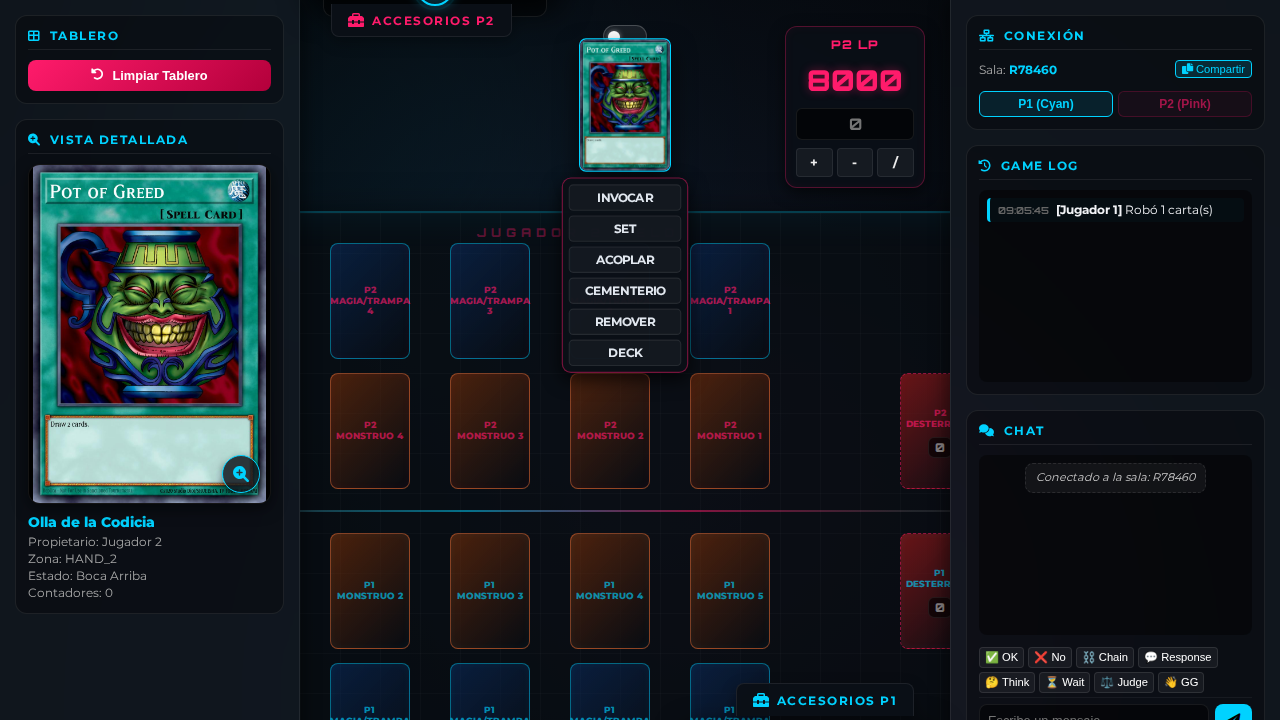
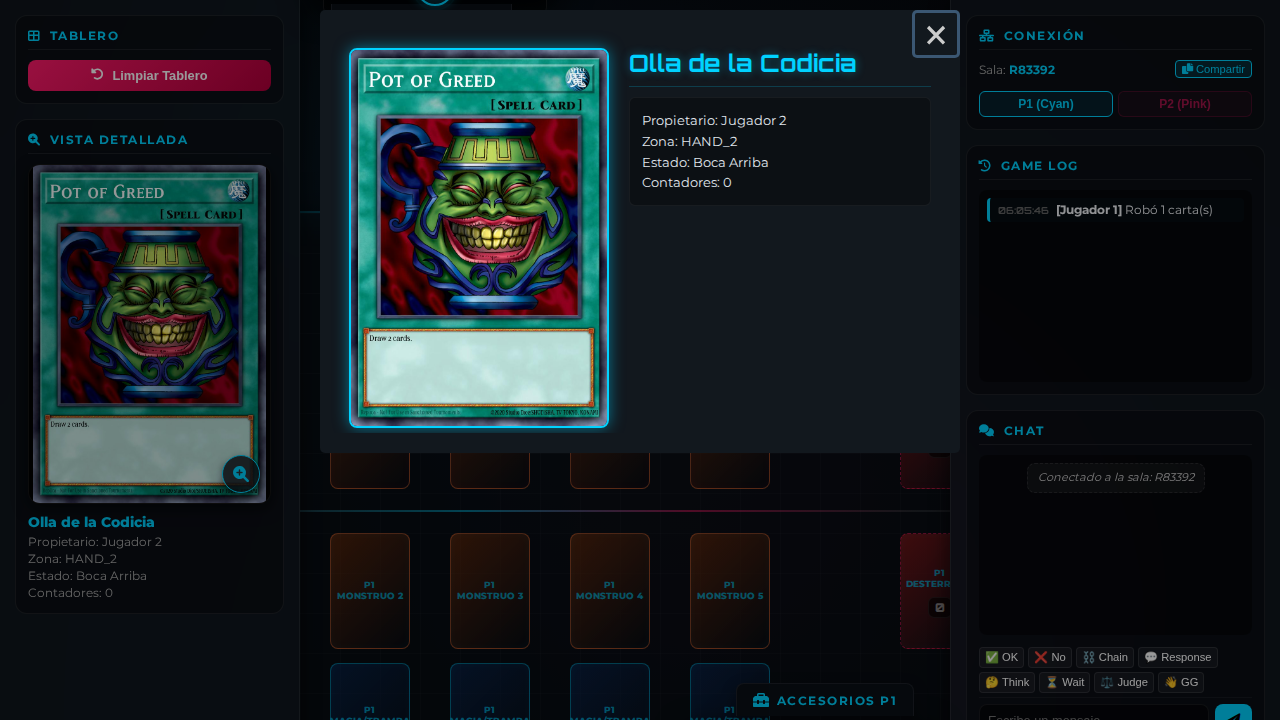
feat(duel): add custom stats, zoom modal, left-click context menu, practice reveal, and graveyard top card ordering in docs/duel.html

diff --git a/docs/duel.html b/docs/duel.html
@@ -927,6 +927,12 @@
             opacity: 1;
         }
 
+        /* Permanently hide hover ribbons */
+        .hand-card-actions, .field-card-actions, .extra-deck-card-hover-overlay {
+            display: none !important;
+            opacity: 0 !important;
+            pointer-events: none !important;
+        }
     </style>
     <script src="https://code.jquery.com/jquery-3.6.0.min.js"></script>
     <script src="https://cdn.jsdelivr.net/npm/@supabase/supabase-js@2"></script>
@@ -993,6 +999,15 @@
                     <div class="counter-source poke-counter-source dmg-100" data-val="100" draggable="true">100</div>
                 </div>
             </div>
+
+            <div class="accessories-section" id="custom-stats-section-p1">
+                <h3>Custom ATK / DEF</h3>
+                <div class="acc-row" style="display: flex; gap: 8px; justify-content: space-between; align-items: center; margin-bottom: 8px;">
+                    <input type="number" class="custom-atk-input" placeholder="ATK" style="width: 70px; background: #12181e; border: 1px solid #00d2ff; color: #fff; padding: 4px; border-radius: 4px; text-align: center; font-size: 12px; font-family: 'Orbitron', sans-serif;">
+                    <input type="number" class="custom-def-input" placeholder="DEF" style="width: 70px; background: #12181e; border: 1px solid #00d2ff; color: #fff; padding: 4px; border-radius: 4px; text-align: center; font-size: 12px; font-family: 'Orbitron', sans-serif;">
+                </div>
+                <button class="btn-apply-custom-stats" style="width: 100%; background: #00d2ff; color: #000; border: none; padding: 6px; border-radius: 4px; font-weight: bold; cursor: pointer; box-shadow: 0 0 10px rgba(0, 210, 255, 0.4); font-family: 'Orbitron', sans-serif; font-size: 11px;">Aplicar a Carta</button>
+            </div>
         </div>
     </div>
 
@@ -1049,6 +1064,15 @@
                     <div class="counter-source poke-counter-source dmg-90" data-val="90" draggable="true">90</div>
                     <div class="counter-source poke-counter-source dmg-100" data-val="100" draggable="true">100</div>
                 </div>
+            </div>
+
+            <div class="accessories-section" id="custom-stats-section-p2">
+                <h3>Custom ATK / DEF</h3>
+                <div class="acc-row" style="display: flex; gap: 8px; justify-content: space-between; align-items: center; margin-bottom: 8px;">
+                    <input type="number" class="custom-atk-input" placeholder="ATK" style="width: 70px; background: #12181e; border: 1px solid #ff007f; color: #fff; padding: 4px; border-radius: 4px; text-align: center; font-size: 12px; font-family: 'Orbitron', sans-serif;">
+                    <input type="number" class="custom-def-input" placeholder="DEF" style="width: 70px; background: #12181e; border: 1px solid #ff007f; color: #fff; padding: 4px; border-radius: 4px; text-align: center; font-size: 12px; font-family: 'Orbitron', sans-serif;">
+                </div>
+                <button class="btn-apply-custom-stats" style="width: 100%; background: #ff007f; color: #fff; border: none; padding: 6px; border-radius: 4px; font-weight: bold; cursor: pointer; box-shadow: 0 0 10px rgba(255, 0, 127, 0.4); font-family: 'Orbitron', sans-serif; font-size: 11px;">Aplicar a Carta</button>
             </div>
         </div>
     </div>
@@ -1263,8 +1287,12 @@
         <div class="menu-item" id="menu-to-grave"><i class="fas fa-skull"></i> Enviar al Cementerio</div>
         <div class="menu-item" id="menu-to-deck-top"><i class="fas fa-arrow-up"></i> Poner al tope del Deck</div>
         <div class="menu-item" id="menu-to-deck-bottom"><i class="fas fa-arrow-down"></i> Poner al fondo del Deck</div>
+        <div class="menu-item" id="menu-to-extra-face-up"><i class="fas fa-arrow-up"></i> Al Extra Deck (Boca Arriba)</div>
+        <div class="menu-item" id="menu-to-extra-face-down"><i class="fas fa-arrow-down"></i> Al Extra Deck (Boca Abajo)</div>
         <hr>
         <div class="menu-item" id="menu-control"><i class="fas fa-exchange-alt"></i> Tomar Control</div>
+        <hr>
+        <div class="menu-item" id="menu-custom-stats"><i class="fas fa-edit"></i> Modificar ATK/DEF</div>
     </div>
 
     <!-- Click handler bindings for targeting attacks -->
@@ -2873,6 +2901,18 @@
                     });
                 }
 
+                // Stable sort state.cards by movedToPileAt so the latest card sent to any pile is positioned last in its zone's list!
+                state.cards.sort((a, b) => {
+                    if (a.zone !== b.zone) return 0;
+                    const isPile = a.zone.startsWith("deck_") || a.zone.startsWith("grave_") || a.zone.startsWith("banished_") || a.zone.startsWith("extra_");
+                    if (isPile) {
+                        const timeA = a.movedToPileAt || 0;
+                        const timeB = b.movedToPileAt || 0;
+                        return timeA - timeB;
+                    }
+                    return 0;
+                });
+
                 const newStates = trackCardStates();
 
                 // If this render is triggered by a remote sync, do not log or broadcast!
@@ -3106,6 +3146,216 @@
             setTimeout(() => {
                 previousCardStates = trackCardStates();
             }, 1000);
+
+            // Handle Accessories Panel "Aplicar a Carta" button
+            $(document).on("click", ".btn-apply-custom-stats", function(e) {
+                e.preventDefault();
+                e.stopPropagation();
+                const $sec = $(this).closest(".accessories-section");
+                const atkVal = $sec.find(".custom-atk-input").val();
+                const defVal = $sec.find(".custom-def-input").val();
+
+                window.activeStatsTargeting = {
+                    atk: (atkVal !== "" && atkVal !== null) ? parseInt(atkVal) : undefined,
+                    def: (defVal !== "" && defVal !== null) ? parseInt(defVal) : undefined
+                };
+
+                Swal.fire({
+                    toast: true,
+                    position: 'bottom',
+                    showConfirmButton: false,
+                    timer: 5000,
+                    timerProgressBar: true,
+                    icon: 'info',
+                    title: 'Haz click en una carta para aplicar los stats customizados',
+                    background: '#12181e',
+                    color: '#fff'
+                });
+            });
+
+            // Handle Context Menu "Modificar ATK/DEF" option
+            $(document).on("click", "#menu-custom-stats", function(e) {
+                e.preventDefault();
+                e.stopPropagation();
+                $("#card-menu").removeClass("active");
+                if (!activeMenuCard) return;
+
+                Swal.fire({
+                    title: 'Modificar ATK / DEF',
+                    html: `
+                        <div style="display: flex; flex-direction: column; gap: 12px; margin-top: 10px;">
+                            <div style="display: flex; justify-content: space-between; align-items: center;">
+                                <label style="color: #fff; font-family: 'Orbitron'; min-width: 80px;">ATK:</label>
+                                <input id="swal-atk" type="number" class="swal2-input" value="${activeMenuCard.customAtk !== undefined ? activeMenuCard.customAtk : ''}" style="margin: 0; background: #12181e; color: #fff; border: 1px solid #00d2ff; font-family: 'Orbitron'; width: 140px; text-align: center;">
+                            </div>
+                            <div style="display: flex; justify-content: space-between; align-items: center;">
+                                <label style="color: #fff; font-family: 'Orbitron'; min-width: 80px;">DEF:</label>
+                                <input id="swal-def" type="number" class="swal2-input" value="${activeMenuCard.customDef !== undefined ? activeMenuCard.customDef : ''}" style="margin: 0; background: #12181e; color: #fff; border: 1px solid #00d2ff; font-family: 'Orbitron'; width: 140px; text-align: center;">
+                            </div>
+                        </div>
+                    `,
+                    background: '#12181e',
+                    color: '#fff',
+                    showCancelButton: true,
+                    confirmButtonText: 'Guardar',
+                    cancelButtonText: 'Cancelar',
+                    confirmButtonColor: '#00d2ff',
+                    cancelButtonColor: '#ff007f',
+                    preConfirm: () => {
+                        return {
+                            atk: document.getElementById('swal-atk').value,
+                            def: document.getElementById('swal-def').value
+                        }
+                    }
+                }).then((result) => {
+                    if (result.isConfirmed) {
+                        const { atk, def } = result.value;
+                        activeMenuCard.customAtk = (atk !== "" && atk !== null) ? parseInt(atk) : undefined;
+                        activeMenuCard.customDef = (def !== "" && def !== null) ? parseInt(def) : undefined;
+                        renderAllCards();
+                    }
+                });
+            });
+
+            // Handle Context Menu "Enviar al Extra Deck Face Up" option
+            $(document).on("click", "#menu-to-extra-face-up", function(e) {
+                e.preventDefault();
+                e.stopPropagation();
+                $("#card-menu").removeClass("active");
+                if (!activeMenuCard) return;
+
+                activeMenuCard.zone = activeMenuCard.owner === "player1" ? "extra_1" : "extra_2";
+                activeMenuCard.faceDown = false;
+                activeMenuCard.tapped = false;
+                activeMenuCard.attachedTo = null;
+                renderAllCards();
+            });
+
+            // Handle Context Menu "Enviar al Extra Deck Face Down" option
+            $(document).on("click", "#menu-to-extra-face-down", function(e) {
+                e.preventDefault();
+                e.stopPropagation();
+                $("#card-menu").removeClass("active");
+                if (!activeMenuCard) return;
+
+                activeMenuCard.zone = activeMenuCard.owner === "player1" ? "extra_1" : "extra_2";
+                activeMenuCard.faceDown = true;
+                activeMenuCard.tapped = false;
+                activeMenuCard.attachedTo = null;
+                renderAllCards();
+            });
+
+            // Handle Magnifying Glass zoom modal popups
+            $("#btn-magnify-preview").on("click", function(e) {
+                e.preventDefault();
+                e.stopPropagation();
+
+                const card = window.activePreviewCard;
+                if (!card) {
+                    Swal.fire({
+                        title: 'Ninguna carta seleccionada',
+                        text: 'Pasa el cursor o haz click sobre una carta antes de ampliarla.',
+                        icon: 'info',
+                        background: '#12181e',
+                        color: '#fff',
+                        confirmButtonColor: '#00d2ff'
+                    });
+                    return;
+                }
+
+                // If card is masked (e.g. opponent's face-down card in multiplayer)
+                const isPile = card.zone.startsWith("deck_") || card.zone.startsWith("extra_") || card.zone.startsWith("prize_");
+                let isFaceDown = card.faceDown && !card.zone.startsWith("hand_");
+
+                if (state.mode === "multiplayer") {
+                    if (isFaceDown && card.owner === currentRole && !isPile) {
+                        isFaceDown = false;
+                    }
+                    const isOpponentHand = (currentRole === "player1" && card.zone === "hand_2") || (currentRole === "player2" && card.zone === "hand_1");
+                    if (isOpponentHand) {
+                        isFaceDown = true;
+                    }
+                } else {
+                    isFaceDown = false;
+                }
+
+                const isMasked = (isPile && state.mode === "multiplayer") || isFaceDown;
+                const imgUrl = isMasked ?
+                    (state.layout === "yugioh" ? "img/bocabajo.jpg" : "img/pokeBocaAbajo.jpg") :
+                    card.imageUrl;
+
+                const nameText = isMasked ? "Carta Boca Abajo" : card.name;
+                let descText = isMasked ?
+                    `Propietario: ${card.owner === "player1" ? "Jugador 1" : "Jugador 2"}\nZona: ${card.zone.toUpperCase()}\nEstado: Boca Abajo\n\n[Detalles ocultos para evitar trampas]` :
+                    `Propietario: ${card.owner === "player1" ? "Jugador 1" : "Jugador 2"}\nZona: ${card.zone.toUpperCase()}\nEstado: ${card.faceDown ? "Boca Abajo (Revelada para ti)" : "Boca Arriba"}\nContadores: ${card.counters}`;
+
+                if (!isMasked) {
+                    if (card.customAtk !== undefined || card.customDef !== undefined) {
+                        descText += `\n[ATK/DEF Modificado]: ⚔ ${card.customAtk !== undefined ? card.customAtk : 0} / 🛡 ${card.customDef !== undefined ? card.customDef : 0}`;
+                    }
+                    if (card.description) {
+                        descText += `\n\nEfecto / Descripción:\n${card.description}`;
+                    }
+                }
+
+                Swal.fire({
+                    width: '640px',
+                    showConfirmButton: false,
+                    showCloseButton: true,
+                    background: '#12181e',
+                    color: '#fff',
+                    html: `
+                        <div style="display: flex; gap: 20px; align-items: flex-start; text-align: left; margin-top: 20px;">
+                            <img src="${imgUrl}" alt="${nameText}" style="width: 260px; height: 380px; object-fit: cover; border-radius: 8px; border: 2px solid #00d2ff; box-shadow: 0 0 15px rgba(0, 210, 255, 0.5);">
+                            <div style="flex: 1; display: flex; flex-direction: column; gap: 10px;">
+                                <h2 style="margin: 0; color: #00d2ff; font-family: 'Orbitron'; font-size: 1.5rem; text-shadow: 0 0 10px rgba(0,210,255,0.4); border-bottom: 1px solid rgba(0,210,255,0.2); padding-bottom: 8px;">${nameText}</h2>
+                                <p style="margin: 0; font-family: 'Montserrat'; font-size: 13px; line-height: 1.6; color: #e0e6ed; white-space: pre-wrap; background: rgba(0,0,0,0.3); padding: 12px; border-radius: 6px; border: 1px solid rgba(255,255,255,0.05); max-height: 280px; overflow-y: auto;">${descText}</p>
+                            </div>
+                        </div>
+                    `
+                });
+            });
+
+            // Left-click on a card to open the same context menu OR apply custom stats
+            $(document).on("click", ".duel-card", function(e) {
+                if ($("#playmat").hasClass("selecting-zone")) return;
+
+                const instId = $(this).data("instance-id");
+                const cardObj = state.cards.find(c => c.instanceId === instId);
+                if (!cardObj) return;
+
+                // Handle active stats targeting from accessories panel
+                if (window.activeStatsTargeting !== undefined && window.activeStatsTargeting !== null) {
+                    e.preventDefault();
+                    e.stopPropagation();
+
+                    cardObj.customAtk = window.activeStatsTargeting.atk;
+                    cardObj.customDef = window.activeStatsTargeting.def;
+                    window.activeStatsTargeting = null;
+                    renderAllCards();
+                    return;
+                }
+
+                if (window.activeAttackSourceCard) return; // let attack targeting handle click
+
+                // Only handle normal cards (on hand or on playmat field slots)
+                const isPile = cardObj.zone.startsWith("deck_") ||
+                               cardObj.zone.startsWith("extra_") ||
+                               cardObj.zone.startsWith("grave_") ||
+                               cardObj.zone.startsWith("banished_");
+
+                if (!isPile) {
+                    e.preventDefault();
+                    e.stopPropagation();
+
+                    activeMenuCard = cardObj;
+                    $("#deck-menu").removeClass("active");
+                    $("#card-menu").css({
+                        left: `${e.clientX}px`,
+                        top: `${e.clientY}px`
+                    }).addClass("active");
+                }
+            });
         });
     </script>
 </body>
